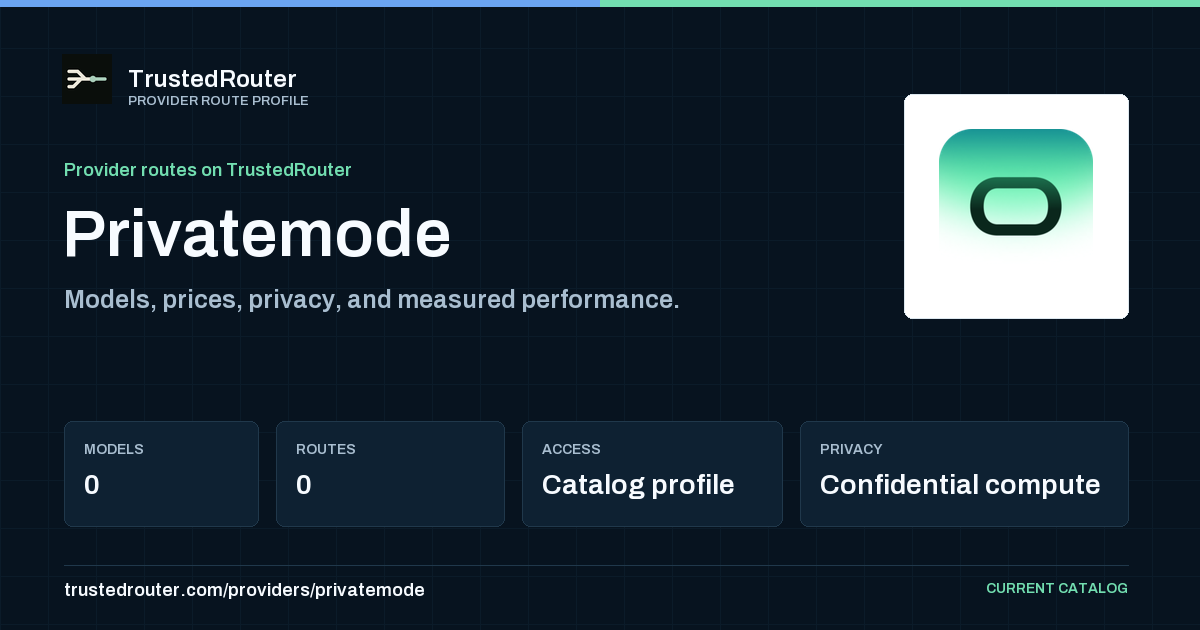
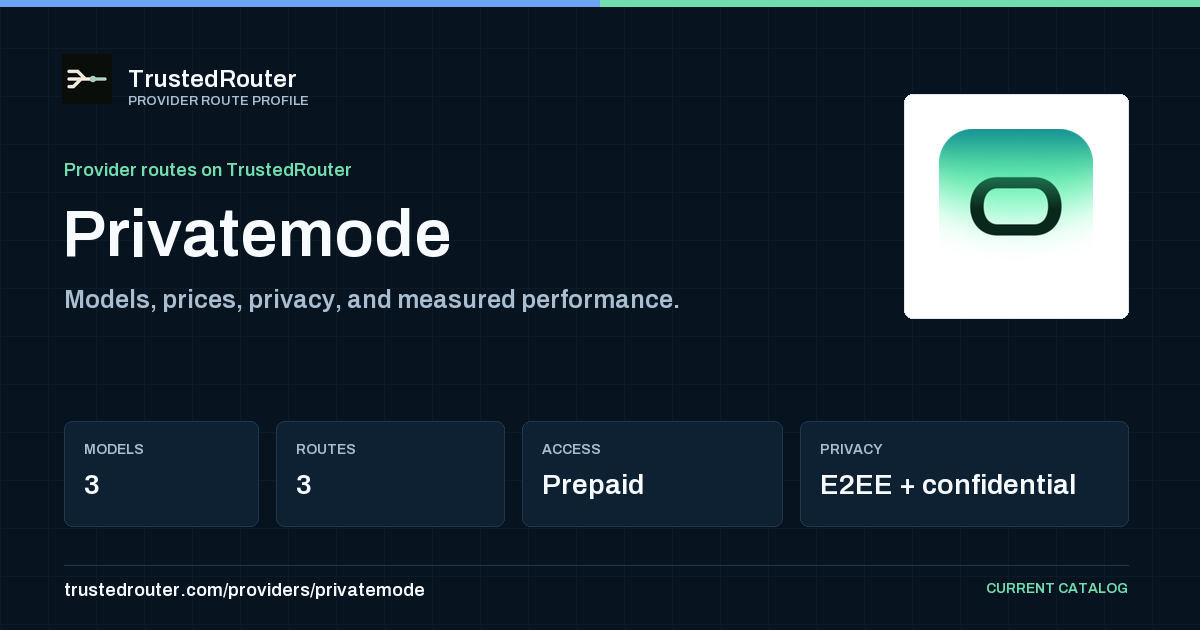
Activate verified Privatemode credits routes and preserve encrypted canary holds

diff --git a/tests/test_privatemode_pricing.py b/tests/test_privatemode_pricing.py
@@ -1,3 +1,4 @@
+import json
 from decimal import Decimal
 
 import pytest
@@ -22,7 +23,8 @@ def test_prices_include_cached_rate_and_currency_reserve():
 
 
 @pytest.mark.parametrize("html", [PRICES.replace("EUR", "$"), PRICES+PRICES,
-                                  PRICES.replace("EUR 0.05", "EUR 5"), "<html>unavailable</html>"])
+                                  PRICES.replace("EUR 0.05", "EUR 5"),
+                                  PRICES.replace("EUR 0.05", "EUR 0"), "<html>unavailable</html>"])
 def test_prices_fail_closed(html):
     with pytest.raises(RuntimeError):
         privatemode.parse_prices(html, Decimal("1.2"))
@@ -54,6 +56,8 @@ def test_discovery_never_sends_plaintext_inference(monkeypatch, httpx_mock, tmp_
     assert len(requests) == 1 and requests[0].method == "GET"
     assert requests[0].headers["Authorization"] == "Bearer synthetic-key"
     assert privatemode._DISCOVERED["z-ai/glm-5.3"]["routable"] is False
+    assert privatemode._DISCOVERED["openai/gpt-oss-120b"]["routable"] is True
+    assert set(privatemode._DISCOVERED) == set(privatemode.UPSTREAM_ID_MAP)
     assert "glm-latest" not in privatemode.UPSTREAM_ID_MAP.values()
     monkeypatch.setattr(privatemode, "MANIFEST_PATH", tmp_path / "provider.json")
     privatemode.write_provider_manifest(result)
@@ -67,3 +71,54 @@ def test_discovery_rejects_credential_redirect(monkeypatch, httpx_mock):
     with pytest.raises(Exception, match="307"):
         privatemode.fetch()
     assert len(httpx_mock.get_requests()) == 1
+
+
+def test_confidential_privatemode_has_only_reviewed_priced_credits_routes():
+    from trusted_router import catalog
+
+    assert catalog.PROVIDERS["privatemode"].provider_e2ee is True
+    assert catalog.PROVIDERS["privatemode"].supports_byok is False
+    for model_id, upstream_id in privatemode.UPSTREAM_ID_MAP.items():
+        routes = [e for e in catalog.endpoints_for_model(model_id) if e.provider == "privatemode"]
+        assert len(routes) == 1
+        route = routes[0]
+        assert route.usage_type == "Credits"
+        assert route.upstream_id == upstream_id
+        assert catalog.endpoint_privacy_tier(route) == catalog.PRIVACY_TIER_CONFIDENTIAL
+        assert route.prompt_price_microdollars_per_million_tokens > 0
+        assert route.completion_price_microdollars_per_million_tokens > 0
+
+
+@pytest.mark.parametrize("reason", ["provider-canary-failed", "operator-review", "attested-enclave-rollout-pending"])
+def test_metadata_refresh_preserves_safety_holds(monkeypatch, tmp_path, reason):
+    path = tmp_path / "provider.json"
+    row = {"id": "z-ai/glm-5.3", "routable": False, "routable_reason": reason}
+    path.write_text(json.dumps({"provider": "privatemode", "models": [row]}))
+    monkeypatch.setattr(privatemode, "MANIFEST_PATH", path)
+    monkeypatch.setattr(privatemode, "_DISCOVERED", {row["id"]: {"id": row["id"], "routable": True}})
+    result = privatemode.ProviderPricingResult(slug="privatemode", source="api",
+                                              prices=privatemode.parse_prices(PRICES, Decimal("1.2")))
+    privatemode.write_provider_manifest(result)
+    saved = json.loads(path.read_text())["models"][0]
+    assert saved["routable"] is False
+    assert saved["routable_reason"] == reason
+
+
+@pytest.mark.parametrize("missing", ["listing", "price"])
+def test_unavailable_model_recovers_after_metadata_returns(monkeypatch, tmp_path, httpx_mock, missing):
+    monkeypatch.setenv("PRIVATEMODE_API_KEY", "synthetic-key")
+    path = tmp_path / "provider.json"
+    monkeypatch.setattr(privatemode, "MANIFEST_PATH", path)
+    for unavailable in (True, False):
+        httpx_mock.add_response(url=privatemode.CATALOG_URL, json={"data": [
+            {"id": native} for native in privatemode.MODELS
+            if not (unavailable and missing == "listing" and native == "glm-5.3")
+        ]})
+        prices = PRICES.replace("<td>GLM-5.3</td>", "<td>Not available</td>") if unavailable and missing == "price" else PRICES
+        monkeypatch.setattr(privatemode, "fetch_html", lambda url, prices=prices: prices if url == privatemode.PRICING_URL
+                            else "<Cube currency='USD' rate='1.2'/>")
+        privatemode.write_provider_manifest(privatemode.fetch())
+        row = next(row for row in json.loads(path.read_text())["models"] if row["id"] == "z-ai/glm-5.3")
+        assert row["routable"] is (not unavailable)
+        if not unavailable:
+            assert "routable_reason" not in row

diff --git a/scripts/pricing/providers/privatemode.py b/scripts/pricing/providers/privatemode.py
@@ -6,6 +6,7 @@ prompt: live inference probes must use the attested enclave adapter.
 
 from __future__ import annotations
 
+import json
 import os
 import re
 from decimal import Decimal
@@ -23,7 +24,6 @@ from scripts.pricing.base import (
 )
 from scripts.pricing.currency import ECB_FX_URL, eur_microdollars_per_million, usd_per_eur
 from scripts.pricing.manifest import write_discovered_chat_manifest
-from scripts.pricing.model_ids import remember_upstream_id
 
 SLUG = "privatemode"
 CATALOG_URL = "https://api.privatemode.ai/v1/models"
@@ -42,8 +42,6 @@ MODELS = {
 }
 UPSTREAM_ID_MAP = {row[0]: native for native, row in MODELS.items()}
 _DISCOVERED: dict[str, dict[str, Any]] = {}
-# Removed only after all enclave deployments pass the pinned live probes.
-ROLLOUT_HOLD = "attested-enclave-rollout-pending"
 
 
 def canonical_model_id(native_id: str) -> str | None:
@@ -79,7 +77,7 @@ def parse_prices(html: str, rate: Decimal) -> dict[str, ModelPrice]:
             price = ModelPrice(_price(row["input"], rate), _price(row["output"], rate),
                                prompt_cached_micro_per_m=cached)
             if price.prompt_micro_per_m <= 0 or price.completion_micro_per_m <= 0 or (
-                cached > price.prompt_micro_per_m
+                not 0 < cached <= price.prompt_micro_per_m
             ):
                 raise RuntimeError("privatemode: invalid token prices")
             if model_id in prices:
@@ -113,15 +111,12 @@ def fetch() -> ProviderPricingResult:
             "id": model_id, "upstream_id": native, "display_name": name,
             "context_length": context, "input_modalities": ["text", "image"] if vision else ["text"],
             "supports_tools": True, "supports_reasoning": True,
-            "routable": available and not ROLLOUT_HOLD,
+            "routable": available,
         }
         if not available:
-            row["routable_reason"] = "model-or-price-unavailable"
-        elif ROLLOUT_HOLD:
-            row["routable_reason"] = ROLLOUT_HOLD
+            row["routable_reason"] = "delisted-upstream" if native not in native_ids else "price-unavailable"
         if available:
             prices[model_id] = published[model_id]
-            remember_upstream_id(UPSTREAM_ID_MAP, model_id, native)
         _DISCOVERED[model_id] = row
     if not prices:
         raise RuntimeError("privatemode: no priced release-pinned models")
@@ -130,9 +125,16 @@ def fetch() -> ProviderPricingResult:
 
 
 def write_provider_manifest(result: ProviderPricingResult) -> list[str]:
+    holds = {key: row["routable_reason"] for key, row in _DISCOVERED.items()
+             if row.get("routable") is False}
+    if MANIFEST_PATH.exists():
+        # Listing/pricing cannot prove recovery from failed encrypted inference.
+        # Only a successful enclave canary or an explicit operator release may.
+        for row in json.loads(MANIFEST_PATH.read_text(encoding="utf-8"))["models"]:
+            if row.get("routable") is False and row.get("routable_reason") == "provider-canary-failed":
+                holds[row["id"]] = "provider-canary-failed"
     return write_discovered_chat_manifest(
         result, manifest_path=MANIFEST_PATH, discovered_rows=_DISCOVERED,
         source_url=MODEL_DOCS_URL, pricing_source_url=PRICING_URL,
-        operator_hold_reasons={key: row["routable_reason"] for key, row in _DISCOVERED.items()
-                               if row.get("routable") is False},
+        operator_hold_reasons=holds,
     )

diff --git a/src/trusted_router/catalog_data.py b/src/trusted_router/catalog_data.py
@@ -810,11 +810,12 @@ PROVIDERS: dict[str, Provider] = {
         supports_prepaid=True,
         supports_byok=False,
         provider_confidential_compute=True,
-        provider_e2ee=False,  # Enabled only after the pinned enclave rollout is verified.
+        provider_e2ee=True,
         provider_policy=(
-            "Edgeless Systems publishes an attestation-backed encrypted inference "
-            "API. TrustedRouter integration is pending its pinned enclave rollout. "
-            "Routes remain unavailable until verification completes. No separate "
+            "Requests and responses are encrypted between TrustedRouter's enclave "
+            "and release-pinned Privatemode workloads after attestation verification. "
+            "Verification failures reject the request; there is no plaintext fallback. "
+            "Cache-routing metadata is visible to the provider edge. No separate "
             "ZDR commitment is inferred from encryption."
         ),
         provider_policy_url="https://docs.privatemode.ai/security/attestation/overview/",
